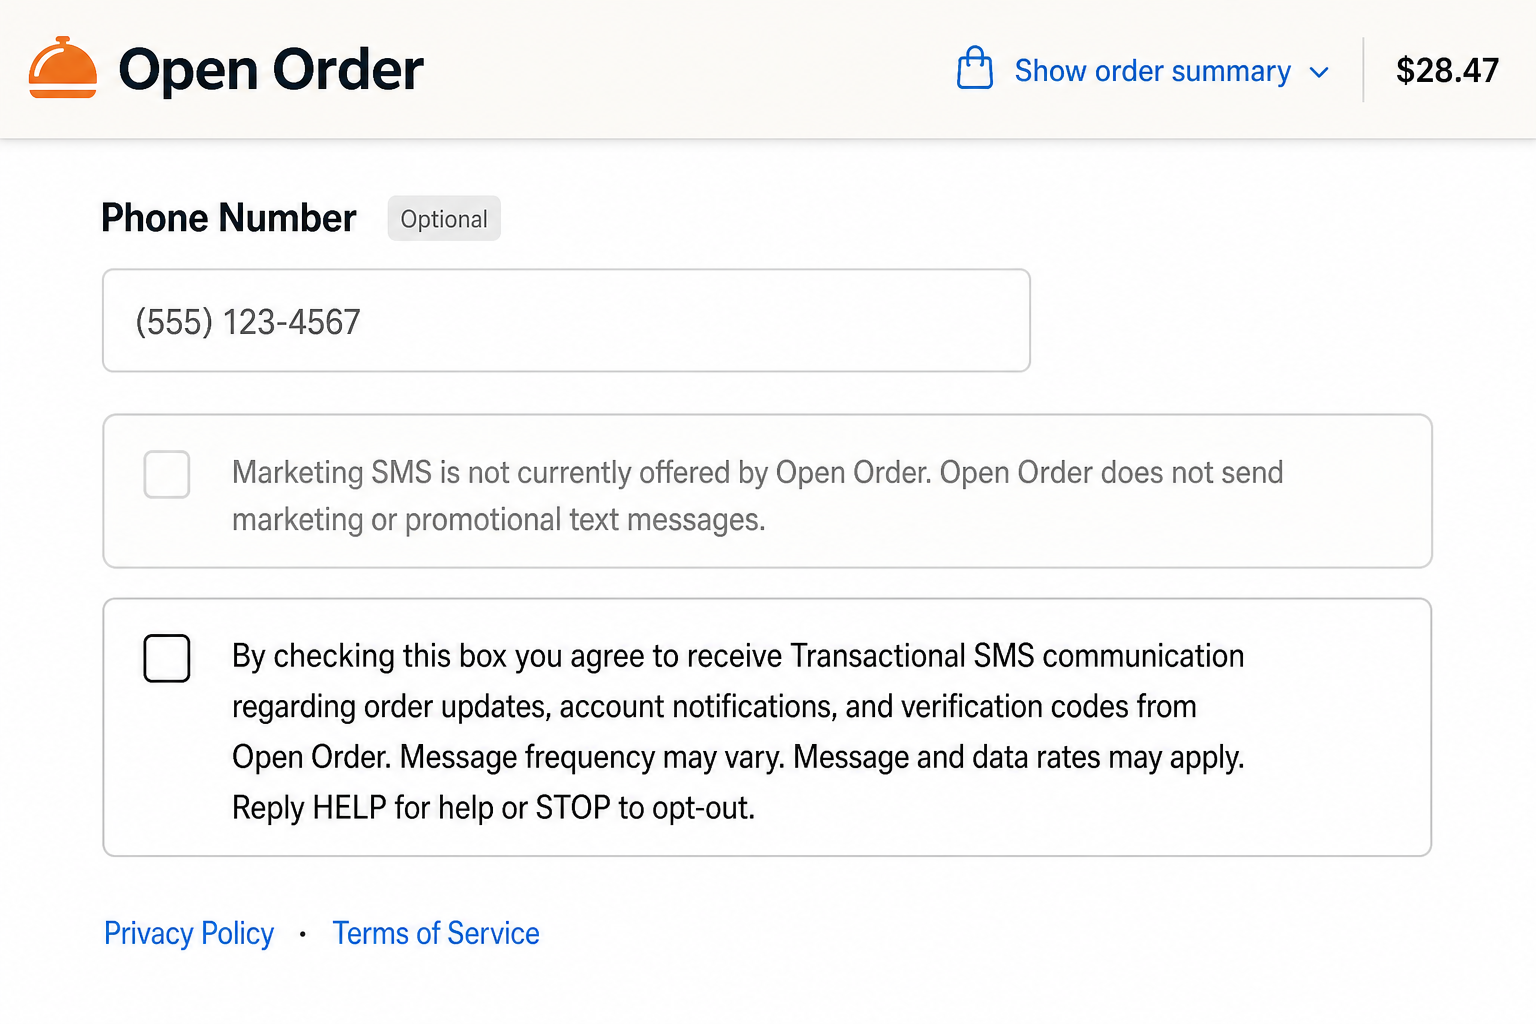
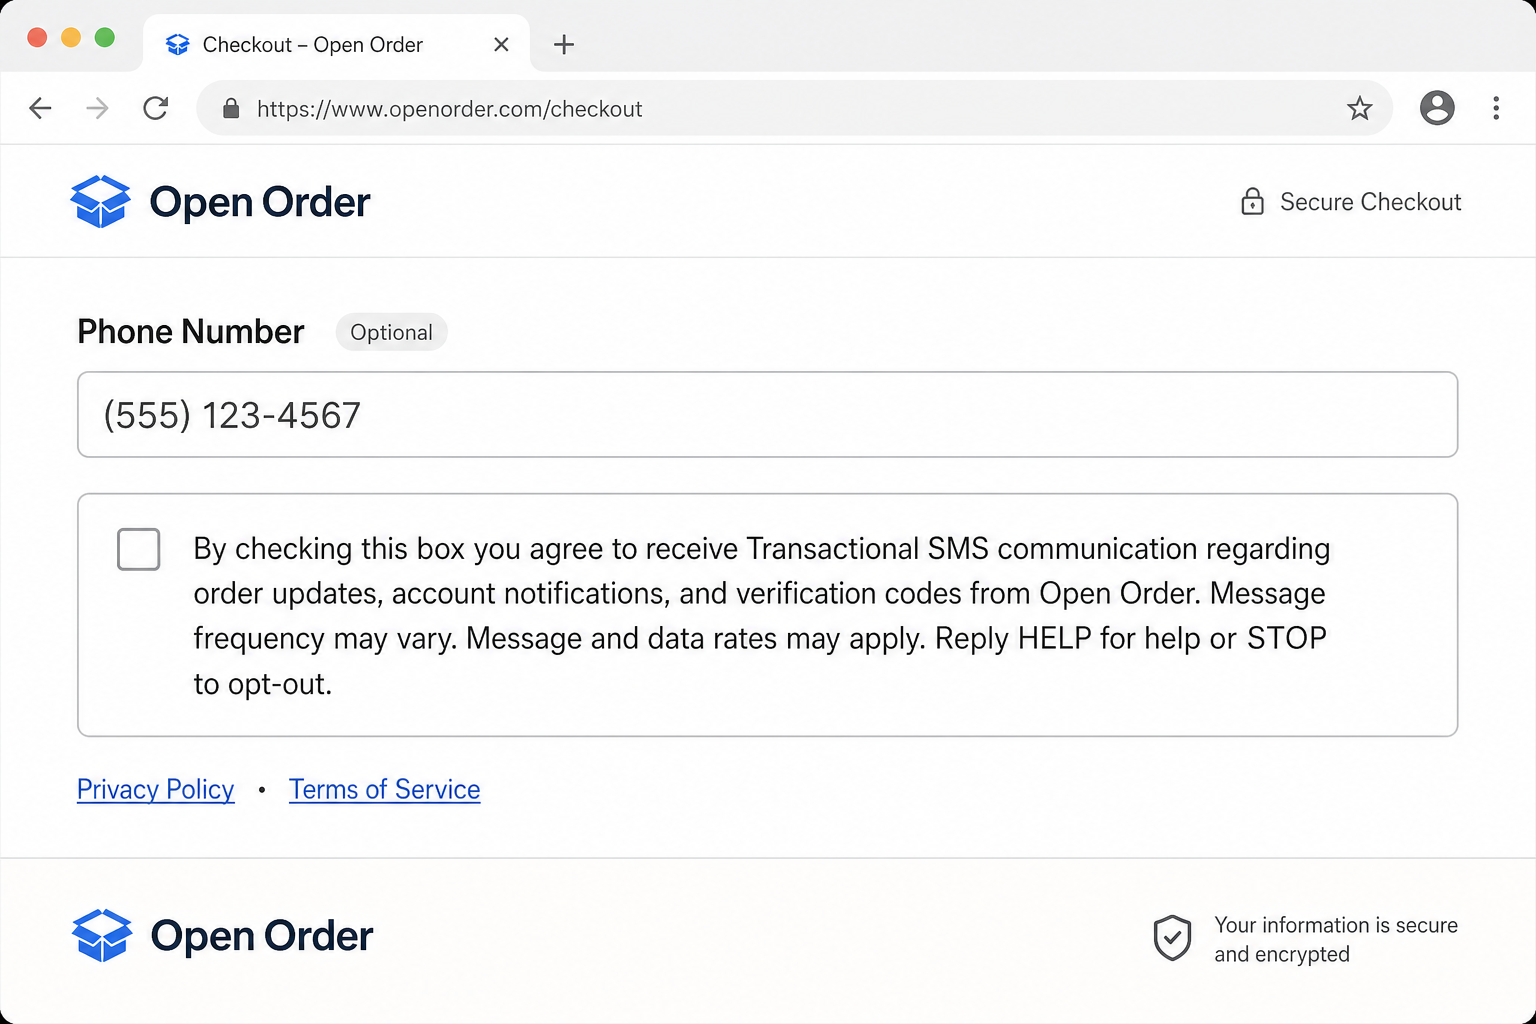
Twilio compliance 1.1

diff --git a/src/app/sms-consent/SmsConsentPageContent.tsx b/src/app/sms-consent/SmsConsentPageContent.tsx
@@ -30,9 +30,9 @@ export function SmsConsentPageContent() {
           </p>
           <p className="mt-3">
             Open Order does <strong className="font-semibold text-oo-charcoal">not</strong> send
-            marketing or promotional SMS. The transactional checkbox below is the only active web
-            opt-in path. Group order join is <strong className="font-semibold text-oo-charcoal">not</strong>{" "}
-            an SMS opt-in path.
+            marketing or promotional SMS. There is no marketing SMS opt-in on checkout or account
+            settings. The transactional checkbox is the only active web opt-in path. Group order join is{" "}
+            <strong className="font-semibold text-oo-charcoal">not</strong> an SMS opt-in path.
           </p>
           <p className="mt-3">
             SMS is <strong className="font-semibold text-oo-charcoal">optional</strong> and not required
@@ -126,10 +126,7 @@ export function SmsConsentPageContent() {
             <dd className="mt-1">
               <ol className="list-decimal space-y-1 pl-5 text-oo-stone-gray">
                 <li>Optionally enter a phone number (not required to checkout).</li>
-                <li>
-                  Review the marketing SMS row (disabled — not offered) and optionally check the
-                  transactional SMS disclosure box.
-                </li>
+                <li>Optionally check the transactional SMS disclosure box.</li>
                 <li>If SMS is checked, verify the number with a one-time code.</li>
                 <li>Place the order. Transactional SMS consent is stored when the order is placed.</li>
               </ol>
@@ -180,10 +177,7 @@ export function SmsConsentPageContent() {
               <ol className="list-decimal space-y-1 pl-5 text-oo-stone-gray">
                 <li>Click Add phone number or Change.</li>
                 <li>Enter a phone number.</li>
-                <li>
-                  Review the disabled marketing SMS row and check the transactional SMS disclosure box
-                  to enable order updates.
-                </li>
+                <li>Check the transactional SMS disclosure box to enable order updates.</li>
                 <li>Send verification code and enter the one-time code.</li>
                 <li>
                   Transactional SMS consent is stored when verification completes with the checkbox
@@ -253,21 +247,16 @@ export function SmsConsentPageContent() {
 
       <LegalSection id="checkbox-copy" title="Exact in-app consent language">
         <p>
-          Checkout and account show a disabled marketing SMS row (Open Order does not send marketing
-          texts), an active transactional SMS disclosure checkbox, and Privacy Policy / Terms of Service
-          links directly below the checkboxes.
+          Checkout and account show a single transactional SMS disclosure checkbox with Privacy Policy
+          and Terms of Service links directly below. Open Order does not send marketing or promotional
+          SMS and does not offer a marketing opt-in.
         </p>
-        <p className="mt-4 font-medium text-oo-charcoal">Marketing SMS row (disabled, not stored)</p>
-        <blockquote className="mt-2 rounded-lg border border-oo-light-stone bg-oo-cream/80 px-4 py-3 text-sm leading-relaxed text-oo-charcoal">
-          Marketing SMS is not currently offered by Open Order. Open Order does not send marketing or
-          promotional text messages.
-        </blockquote>
         <p className="mt-4 font-medium text-oo-charcoal">Transactional SMS checkbox (active opt-in)</p>
         <blockquote className="mt-2 rounded-lg border border-oo-light-stone bg-oo-cream/80 px-4 py-3 text-sm leading-relaxed text-oo-charcoal">
           {SMS_TRANSACTIONAL_CONSENT_CHECKBOX_LABEL}
         </blockquote>
         <p className="mt-3 text-sm text-oo-stone-gray">
-          Below the checkboxes, customers see links to{" "}
+          Below the checkbox, customers see links to{" "}
           <Link href="/privacy" className="font-semibold text-brand hover:underline">
             Privacy Policy
           </Link>{" "}
@@ -298,7 +287,7 @@ export function SmsConsentPageContent() {
           >
             <Image
               src={TWILIO_CONSENT_FORM_SCREENSHOT_PATH}
-              alt="Open Order SMS consent form showing Phone Number Optional, disabled marketing SMS row, transactional SMS opt-in checkbox, and Privacy Policy and Terms of Service links"
+              alt="Open Order SMS consent form showing Phone Number Optional, transactional SMS opt-in checkbox, and Privacy Policy and Terms of Service links"
               width={960}
               height={720}
               className="h-auto w-full max-w-2xl"
@@ -306,8 +295,8 @@ export function SmsConsentPageContent() {
             />
           </a>
           <figcaption className="mt-2 text-sm text-oo-stone-gray">
-            Checkout-style consent UI: optional phone number, disabled marketing SMS disclosure, active
-            transactional SMS opt-in, and legal links.
+            Checkout-style consent UI: optional phone number, transactional SMS opt-in checkbox, and legal
+            links. No marketing SMS opt-in is shown.
           </figcaption>
         </figure>
       </LegalSection>

diff --git a/src/lib/legal/sms-compliance.test.ts b/src/lib/legal/sms-compliance.test.ts
@@ -4,7 +4,6 @@ import { describe, expect, it } from "vitest";
 
 import {
   SMS_ACTIVE_OPT_IN_PATHS,
-  SMS_MARKETING_NOT_OFFERED_LABEL,
   SMS_TRANSACTIONAL_CONSENT_CHECKBOX_LABEL,
   TWILIO_CONSENT_FORM_SCREENSHOT_URL,
 } from "./sms-consent-copy";
@@ -23,11 +22,6 @@ describe("sms-consent-copy", () => {
     expect(SMS_TRANSACTIONAL_CONSENT_CHECKBOX_LABEL).toMatch(/Reply HELP for help/i);
     expect(SMS_TRANSACTIONAL_CONSENT_CHECKBOX_LABEL).toMatch(/STOP to opt-out/i);
     expect(SMS_TRANSACTIONAL_CONSENT_CHECKBOX_LABEL).not.toMatch(/marketing/i);
-  });
-
-  it("documents marketing SMS as not offered", () => {
-    expect(SMS_MARKETING_NOT_OFFERED_LABEL).toMatch(/not currently offered/i);
-    expect(SMS_MARKETING_NOT_OFFERED_LABEL).toMatch(/does not send marketing or promotional/i);
   });
 
   it("lists only active opt-in paths without group order join", () => {
@@ -74,7 +68,7 @@ describe("SMS compliance pages and forms", () => {
     expect(smsPageSrc).toMatch(/SMS_ACTIVE_OPT_IN_PATHS/);
     expect(smsPageSrc).toMatch(/not.*an SMS opt-in path/);
     expect(smsPageSrc).toMatch(/marketing or promotional SMS/);
-    expect(smsPageSrc).toMatch(/transactional checkbox below is the only active web/);
+    expect(smsPageSrc).toMatch(/no marketing SMS opt-in/);
     expect(SMS_ACTIVE_OPT_IN_PATHS.join(" ")).not.toMatch(/group order join/i);
     expect(smsPageSrc).toMatch(/SmsConsentCheckoutReviewerMockup/);
     expect(smsPageSrc).toMatch(/SmsConsentAccountReviewerMockup/);
@@ -88,12 +82,13 @@ describe("SMS compliance pages and forms", () => {
     expect(smsPageSrc).toMatch(/\/terms/);
     expect(smsPageSrc).toMatch(/consent is stored when the order is placed/);
     expect(smsMockSrc).toMatch(/data-sms-reviewer-mockup/);
-    expect(smsMockSrc).toMatch(/SMS_MARKETING_NOT_OFFERED_LABEL/);
     expect(smsMockSrc).toMatch(/SMS_TRANSACTIONAL_CONSENT_CHECKBOX_LABEL/);
     expect(smsMockSrc).toMatch(/SMS_PHONE_NUMBER_LABEL/);
     expect(smsMockSrc).toMatch(/SMS_PHONE_OPTIONAL_TAG/);
     expect(smsMockSrc).toMatch(/href="\/privacy"/);
     expect(smsMockSrc).toMatch(/href="\/terms"/);
+    expect(smsMockSrc).not.toMatch(/SMS_MARKETING/);
+    expect(smsMockSrc).not.toMatch(/smsMarketingConsent/);
     expect(smsPageSrc).toMatch(/Twilio reviewer consent form screenshot/);
     expect(smsPageSrc).toMatch(/TWILIO_CONSENT_FORM_SCREENSHOT_URL/);
     expect(smsPageSrc).toMatch(/TWILIO_CONSENT_FORM_SCREENSHOT_PATH/);
@@ -108,7 +103,7 @@ describe("SMS compliance pages and forms", () => {
     expect(footerSrc).toMatch(/href="\/sms-consent"/);
   });
 
-  it("checkout and account use Twilio-aligned SMS consent with disabled marketing row", () => {
+  it("checkout and account show transactional SMS consent only (no marketing checkbox)", () => {
     expect(checkoutFormSrc).toMatch(/useState\(initialSmsConsent\)/);
     expect(checkoutPageSrc).toMatch(/hasTransactionalSmsConsent/);
     expect(checkoutPhoneSrc).toMatch(/SmsConsentCheckbox/);
@@ -116,21 +111,20 @@ describe("SMS compliance pages and forms", () => {
     expect(accountPhoneSrc).toMatch(/SmsConsentCheckbox/);
     expect(accountPhoneSrc).toMatch(/SmsPhoneNumberLabel/);
     expect(accountPhoneSrc).toMatch(/smsConsent/);
-    expect(checkboxSrc).toMatch(/SMS_MARKETING_NOT_OFFERED_LABEL/);
     expect(checkboxSrc).toMatch(/SMS_TRANSACTIONAL_CONSENT_CHECKBOX_LABEL/);
-    expect(checkboxSrc).toMatch(/disabled/);
-    expect(checkboxSrc).toMatch(/name="smsMarketingConsent"/);
     expect(checkboxSrc).toMatch(/name="smsConsent"/);
     expect(checkboxSrc).toMatch(/href="\/privacy"/);
     expect(checkboxSrc).toMatch(/href="\/terms"/);
+    expect(checkboxSrc).not.toMatch(/SMS_MARKETING/);
+    expect(checkboxSrc).not.toMatch(/smsMarketingConsent/);
     expect(checkboxSrc).not.toMatch(/defaultChecked/);
   });
 
-  it("does not store marketing consent", () => {
+  it("does not store or collect marketing consent", () => {
     expect(verifyCodeSrc).toMatch(/smsConsent/);
     expect(verifyCodeSrc).not.toMatch(/marketing/i);
-    expect(checkboxSrc).toMatch(/readOnly/);
-    expect(checkboxSrc).toMatch(/checked={false}/);
+    expect(checkboxSrc).not.toMatch(/smsMarketingConsent/);
+    expect(checkboxSrc).not.toMatch(/SMS_MARKETING/);
   });
 
   it("group join does not collect SMS consent", () => {
@@ -142,6 +136,10 @@ describe("SMS compliance pages and forms", () => {
   it("account requires SMS consent before sending verification code", () => {
     expect(accountPhoneSrc).toMatch(/if \(!smsConsent\)/);
     expect(accountPhoneSrc).toMatch(/disabled={otpSending \|\| !phone\.trim\(\) \|\| !smsConsent}/);
+  });
+
+  it("ORDER_RECEIVED template includes HELP language", () => {
+    expect(templatesSrc).toMatch(/Reply HELP for help or STOP to opt out/);
   });
 
   it("exposes public Twilio consent screenshot asset", () => {

diff --git a/src/app/sms-consent/SmsConsentReviewerMockups.tsx b/src/app/sms-consent/SmsConsentReviewerMockups.tsx
@@ -2,7 +2,6 @@ import type { ReactNode } from "react";
 import Link from "next/link";
 
 import {
-  SMS_MARKETING_NOT_OFFERED_LABEL,
   SMS_PHONE_NUMBER_LABEL,
   SMS_PHONE_OPTIONAL_TAG,
   SMS_TRANSACTIONAL_CONSENT_CHECKBOX_LABEL,
@@ -29,7 +28,7 @@ function MockPanel({
 }
 
 const disclosureBoxClassName =
-  "rounded-lg border border-oo-light-stone bg-oo-cream/40 px-3 py-3";
+  "rounded-lg border border-oo-light-stone bg-white px-3 py-3";
 
 function MockPhoneNumberLabel() {
   return (
@@ -39,37 +38,6 @@ function MockPhoneNumberLabel() {
         {SMS_PHONE_OPTIONAL_TAG}
       </span>
     </p>
-  );
-}
-
-function MockCheckboxBox({
-  id,
-  label,
-  checked = false,
-  disabled = false,
-  variant = "muted",
-}: {
-  id: string;
-  label: string;
-  checked?: boolean;
-  disabled?: boolean;
-  variant?: "muted" | "active";
-}) {
-  return (
-    <div className={`${disclosureBoxClassName} ${variant === "active" ? "bg-white" : ""}`.trim()}>
-      <label htmlFor={id} className="flex cursor-default gap-2.5 text-sm leading-relaxed text-oo-charcoal">
-        <input
-          id={id}
-          type="checkbox"
-          readOnly
-          checked={checked}
-          disabled={disabled}
-          className="mt-0.5 h-4 w-4 shrink-0 rounded border-stone-300 text-brand"
-          aria-hidden
-        />
-        <span className={disabled ? "text-oo-stone-gray" : undefined}>{label}</span>
-      </label>
-    </div>
   );
 }
 
@@ -90,16 +58,18 @@ function MockLegalLinks() {
 function MockSmsConsentStack({ transactionalId }: { transactionalId: string }) {
   return (
     <div className="space-y-3">
-      <MockCheckboxBox
-        id={`${transactionalId}-marketing`}
-        label={SMS_MARKETING_NOT_OFFERED_LABEL}
-        disabled
-      />
-      <MockCheckboxBox
-        id={transactionalId}
-        label={SMS_TRANSACTIONAL_CONSENT_CHECKBOX_LABEL}
-        variant="active"
-      />
+      <div className={disclosureBoxClassName}>
+        <label htmlFor={transactionalId} className="flex cursor-default gap-2.5 text-sm leading-relaxed text-oo-charcoal">
+          <input
+            id={transactionalId}
+            type="checkbox"
+            readOnly
+            className="mt-0.5 h-4 w-4 shrink-0 rounded border-stone-300 text-brand"
+            aria-hidden
+          />
+          <span>{SMS_TRANSACTIONAL_CONSENT_CHECKBOX_LABEL}</span>
+        </label>
+      </div>
       <MockLegalLinks />
     </div>
   );
@@ -128,10 +98,10 @@ export function SmsConsentCheckoutReviewerMockup() {
           You can still track your order on the order status page.
         </p>
         <p className="text-xs text-oo-stone-gray">
-          Open Order does not send marketing or promotional SMS. The transactional checkbox is the
-          active opt-in path. SMS is optional and not required to place an order. The transactional
-          checkbox is <strong className="text-oo-charcoal">unchecked by default</strong> unless the
-          signed-in customer already has stored transactional consent.
+          Open Order does not send marketing or promotional SMS. The transactional checkbox is the only
+          SMS opt-in on this form. SMS is optional and not required to place an order. The checkbox is{" "}
+          <strong className="text-oo-charcoal">unchecked by default</strong> unless the signed-in
+          customer already has stored transactional consent.
         </p>
       </div>
     </MockPanel>
@@ -164,8 +134,8 @@ export function SmsConsentAccountReviewerMockup() {
           still checked.
         </p>
         <p className="text-xs text-oo-stone-gray">
-          Marketing SMS is disabled and not offered. Group order join is not an SMS opt-in path. The
-          transactional checkbox is <strong className="text-oo-charcoal">optional</strong> and{" "}
+          Open Order does not send marketing or promotional SMS. Group order join is not an SMS opt-in
+          path. The transactional checkbox is <strong className="text-oo-charcoal">optional</strong> and{" "}
           <strong className="text-oo-charcoal">unchecked by default</strong> unless editing the same
           verified number that already has stored consent.
         </p>

diff --git a/src/components/legal/SmsConsentCheckbox.tsx b/src/components/legal/SmsConsentCheckbox.tsx
@@ -3,7 +3,6 @@
 import Link from "next/link";
 
 import {
-  SMS_MARKETING_NOT_OFFERED_LABEL,
   SMS_PHONE_NUMBER_LABEL,
   SMS_PHONE_OPTIONAL_TAG,
   SMS_TRANSACTIONAL_CONSENT_CHECKBOX_LABEL,
@@ -15,7 +14,7 @@ type SmsConsentCheckboxProps = {
   onChange: (checked: boolean) => void;
   className?: string;
   disabled?: boolean;
-  /** @deprecated Checkout and account share the same Twilio disclosure layout. */
+  /** @deprecated Checkout and account share the same disclosure layout. */
   layout?: "checkout" | "account" | "full";
 };
 
@@ -23,7 +22,7 @@ const checkboxClassName =
   "mt-0.5 h-4 w-4 shrink-0 rounded border-stone-300 text-brand focus:ring-brand";
 
 const disclosureBoxClassName =
-  "rounded-lg border border-oo-light-stone bg-oo-cream/40 px-3 py-3";
+  "rounded-lg border border-oo-light-stone bg-white px-3 py-3";
 
 /** Shared phone field label: "Phone Number" with inline Optional tag. */
 export function SmsPhoneNumberLabel({ className = "" }: { className?: string }) {
@@ -52,8 +51,7 @@ function SmsLegalLinks({ className = "" }: { className?: string }) {
 }
 
 /**
- * Twilio-aligned SMS consent block: disabled marketing row, active transactional row, legal links.
- * Transactional checkbox is unchecked by default unless parent restores stored consent.
+ * Transactional SMS opt-in only (TCPA / A2P). Unchecked by default unless parent restores stored consent.
  */
 export function SmsConsentCheckbox({
   id,
@@ -62,27 +60,9 @@ export function SmsConsentCheckbox({
   className = "",
   disabled = false,
 }: SmsConsentCheckboxProps) {
-  const marketingId = `${id}-marketing`;
-
   return (
     <div className={`space-y-3 ${className}`.trim()}>
       <div className={disclosureBoxClassName}>
-        <label htmlFor={marketingId} className="flex gap-2.5 text-sm text-oo-stone-gray">
-          <input
-            id={marketingId}
-            name="smsMarketingConsent"
-            type="checkbox"
-            checked={false}
-            disabled
-            readOnly
-            aria-disabled="true"
-            className={`${checkboxClassName} cursor-not-allowed opacity-60`}
-          />
-          <span>{SMS_MARKETING_NOT_OFFERED_LABEL}</span>
-        </label>
-      </div>
-
-      <div className={`${disclosureBoxClassName} bg-white`}>
         <label htmlFor={id} className="flex cursor-pointer gap-2.5 text-sm leading-relaxed text-oo-charcoal">
           <input
             id={id}

diff --git a/src/app/account/account-phone-section.test.ts b/src/app/account/account-phone-section.test.ts
@@ -97,10 +97,10 @@ describe("account phone settings card", () => {
     expect(phoneSectionSrc).toMatch(/smsConsent,/);
   });
 
-  it("uses Twilio-aligned disclosure with disabled marketing row and legal links", () => {
-    expect(smsCheckboxSrc).toMatch(/SMS_MARKETING_NOT_OFFERED_LABEL/);
+  it("uses transactional SMS disclosure with legal links (no marketing checkbox)", () => {
     expect(smsCheckboxSrc).toMatch(/SMS_TRANSACTIONAL_CONSENT_CHECKBOX_LABEL/);
-    expect(smsCheckboxSrc).toMatch(/disabled/);
+    expect(smsCheckboxSrc).not.toMatch(/SMS_MARKETING/);
+    expect(smsCheckboxSrc).not.toMatch(/smsMarketingConsent/);
     expect(SMS_TRANSACTIONAL_CONSENT_CHECKBOX_LABEL).toContain("order updates");
     expect(SMS_TRANSACTIONAL_CONSENT_CHECKBOX_LABEL).toContain("account notifications");
     expect(SMS_TRANSACTIONAL_CONSENT_CHECKBOX_LABEL).toContain("verification codes");

diff --git a/src/lib/legal/sms-consent-copy.ts b/src/lib/legal/sms-consent-copy.ts
@@ -8,10 +8,6 @@ export const TWILIO_CONSENT_FORM_SCREENSHOT_PATH = "/twilio/consent-form.png";
 export const SMS_PHONE_NUMBER_LABEL = "Phone Number";
 export const SMS_PHONE_OPTIONAL_TAG = "Optional";
 
-/** Disabled marketing row — Open Order does not send marketing SMS. */
-export const SMS_MARKETING_NOT_OFFERED_LABEL =
-  "Marketing SMS is not currently offered by Open Order. Open Order does not send marketing or promotional text messages.";
-
 /** Active transactional opt-in checkbox disclosure (TCPA / Twilio layout). */
 export const SMS_TRANSACTIONAL_CONSENT_CHECKBOX_LABEL =
   "By checking this box you agree to receive Transactional SMS communication regarding order updates, account notifications, and verification codes from Open Order. Message frequency may vary. Message and data rates may apply. Reply HELP for help or STOP to opt-out.";

diff --git a/src/app/checkout/checkout-contact-ui.test.ts b/src/app/checkout/checkout-contact-ui.test.ts
@@ -63,10 +63,10 @@ describe("checkout contact SMS UX", () => {
     );
   });
 
-  it("uses Twilio-aligned disclosure boxes with transactional opt-in and legal links", () => {
-    expect(smsCheckboxSrc).toMatch(/SMS_MARKETING_NOT_OFFERED_LABEL/);
+  it("uses Twilio-aligned disclosure with transactional opt-in and legal links", () => {
     expect(smsCheckboxSrc).toMatch(/SMS_TRANSACTIONAL_CONSENT_CHECKBOX_LABEL/);
-    expect(smsCheckboxSrc).toMatch(/disabled/);
+    expect(smsCheckboxSrc).not.toMatch(/SMS_MARKETING/);
+    expect(smsCheckboxSrc).not.toMatch(/smsMarketingConsent/);
     expect(smsCheckboxSrc).toMatch(/href="\/privacy"/);
     expect(smsCheckboxSrc).toMatch(/href="\/terms"/);
     expect(smsCheckboxSrc).toMatch(/type="checkbox"/);
